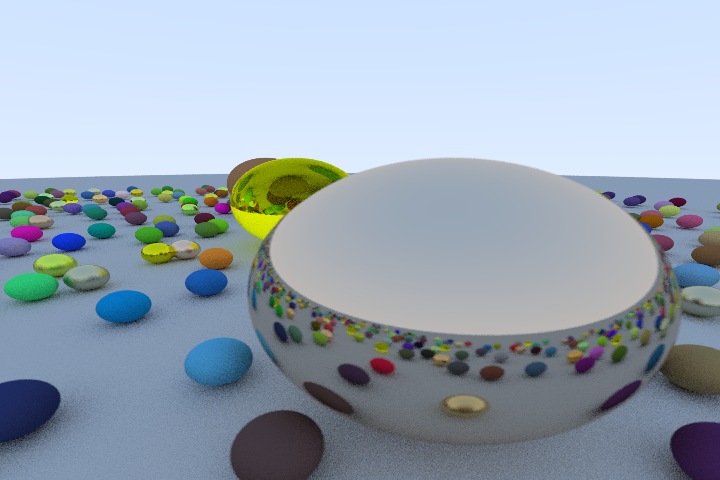
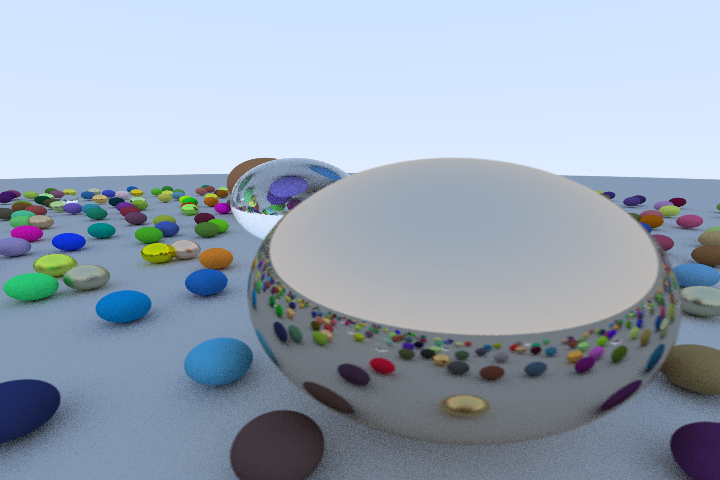
misc commit.

diff --git a/include/Material.h b/include/Material.h
@@ -98,8 +98,7 @@ public:
     {
         vec3 outward_normal;
         double refractive_index_ratio;
-        //attenuation = _albedo; // clear glass should be 1.0,1.0,1.0. stained glass should attenuate only certain color channels.
-        attenuation = vec3(1.0, 1.0, 0.0);
+        attenuation = _albedo; // clear glass should be 1.0,1.0,1.0. stained glass should attenuate only certain color channels.
         vec3 refraction_direction;
 
         vec3 reflection_direction = reflect(createUnitVector(incident.direction()), hit_record.normal);

diff --git a/include/BVH.h b/include/BVH.h
@@ -88,7 +88,7 @@ public:
     virtual ~BVHNode()
     {
         if (_left) delete _left;
-        if (_right) delete _right;
+        if (_right) delete _right; // todo: causes seg fault
     }
 
     virtual bool hit(const Ray &ray, double tmin, double tmax, HitRecord &hit_record) const

diff --git a/include/Scene.h b/include/Scene.h
@@ -25,8 +25,6 @@ public:
 
     ~Scene()
     {
-        //for (auto &e : entities)
-        //    delete e;
         delete _bvh;
     }
 

diff --git a/README.md b/README.md
@@ -2,7 +2,7 @@
 Ray Tracer
 ==========
 
-Simple path tracer written in a single file. stb_image_write.h is used to output to png format.
+Simple path tracer. stb_image_write.h is used to output to png format. Only tested on OS X so far.
 
 ```
 g++ -std=c++11 -Wall -I include -o raytracer raytracer.cpp && ./raytracer
